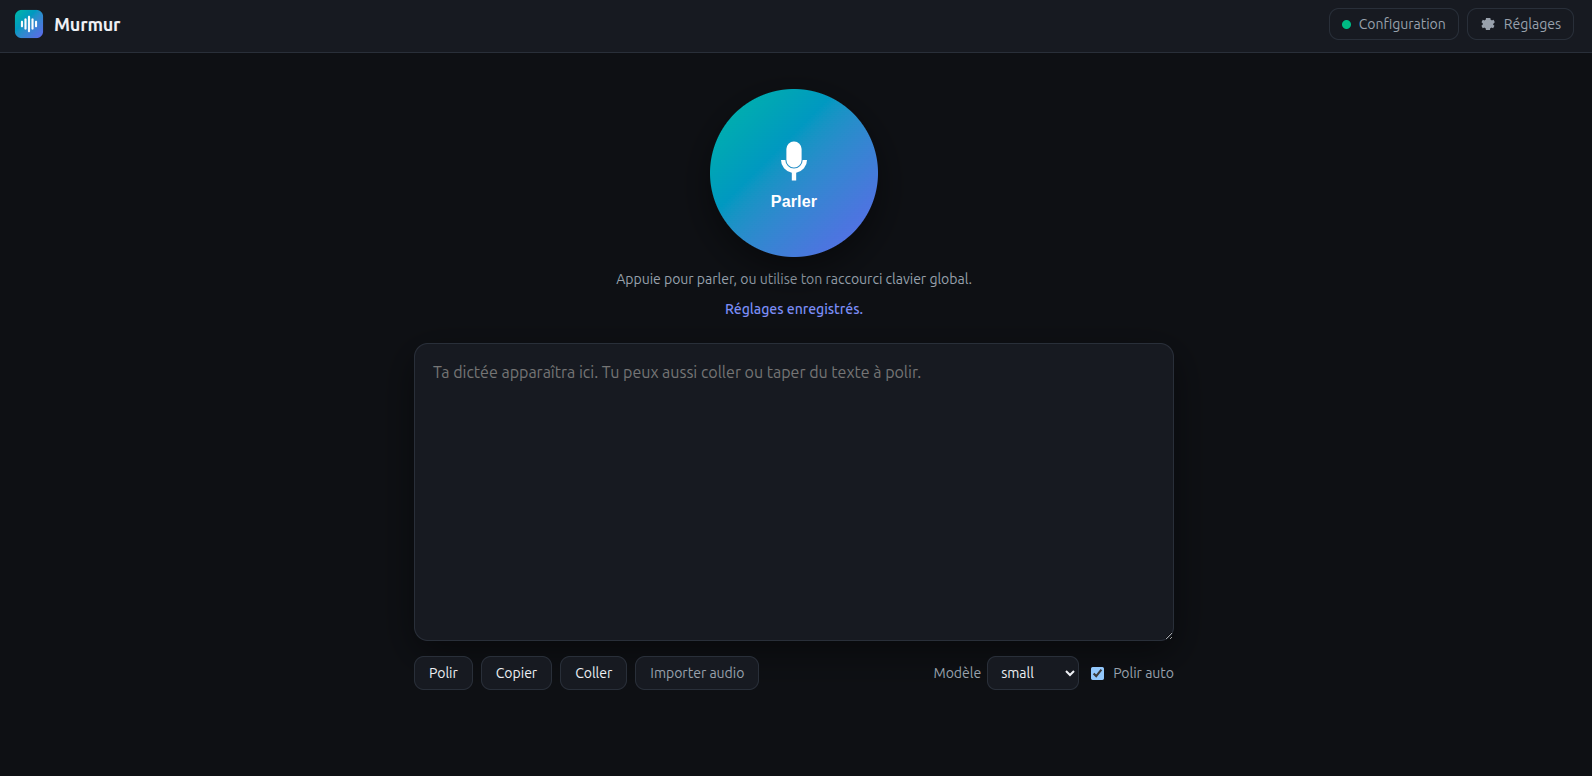
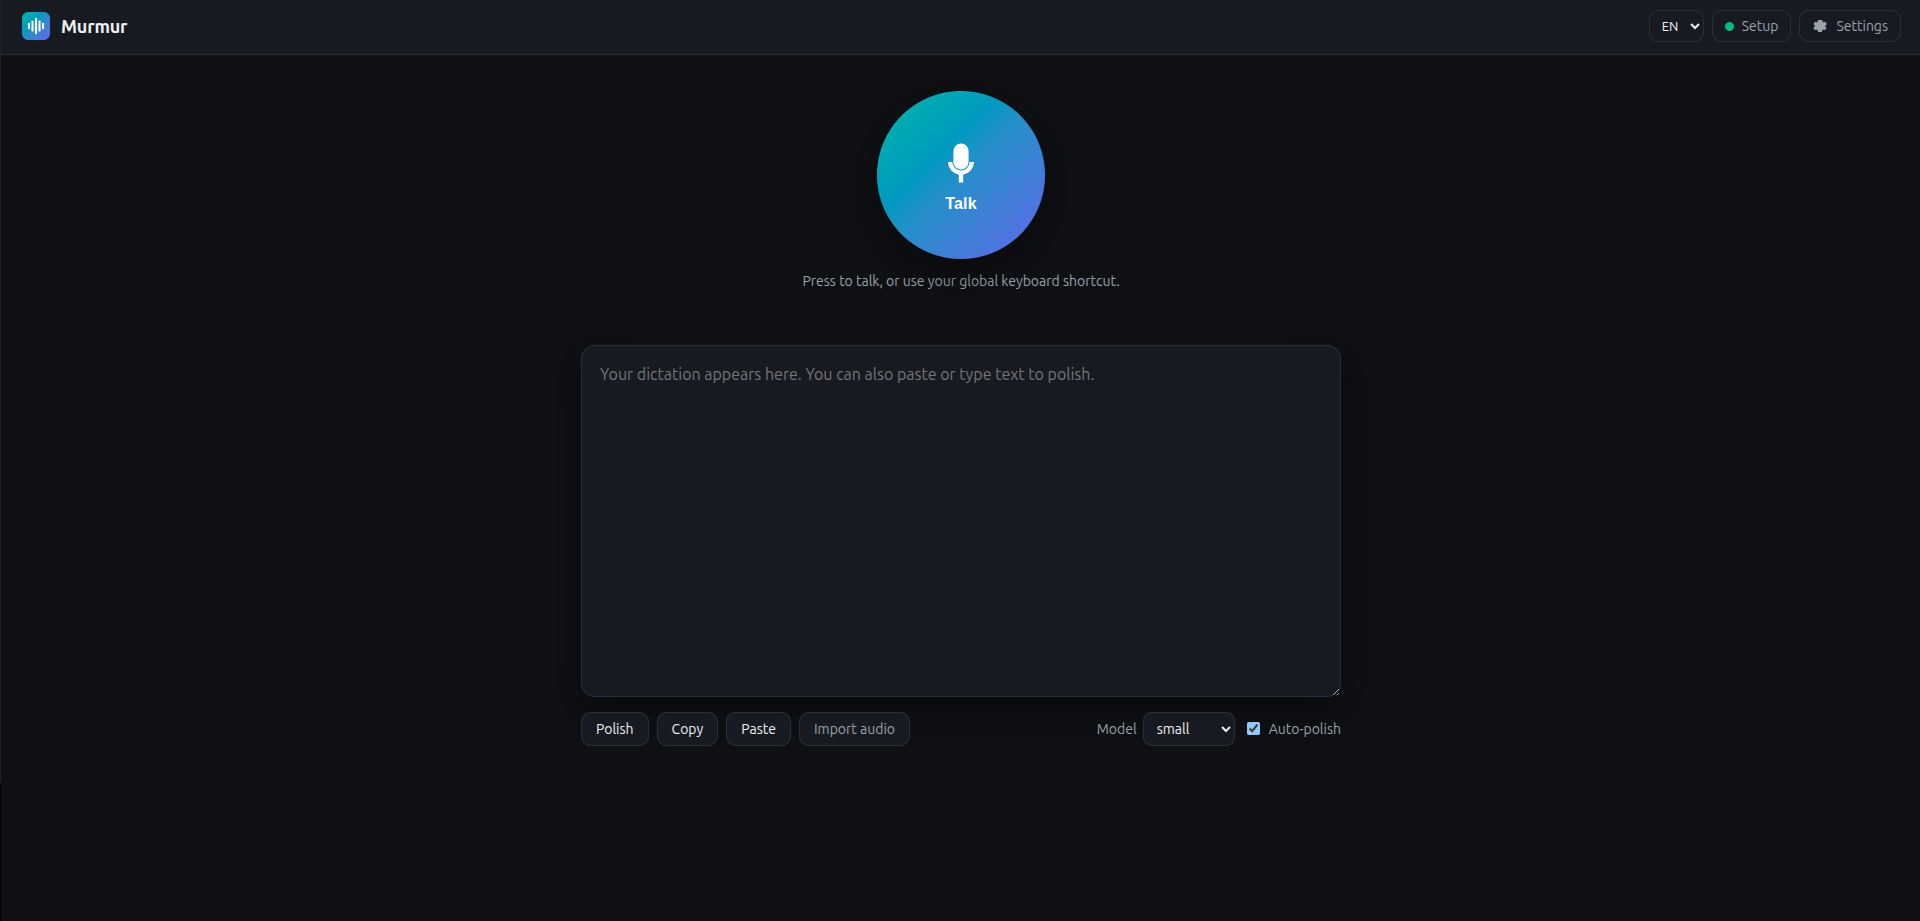
Use English screenshots in the README
Swap the main screenshot for the English UI (more universal for an open-source
audience) and add the English settings panel alongside the diagnostics panel.

diff --git a/README.md b/README.md
@@ -16,11 +16,14 @@ The first version focuses on the core Flow-like loop:
 
 ![Murmur dictation screen](docs/screenshots/main.png)
 
-The built-in setup diagnostics show, in the app, what is installed and the exact
-command to fix anything that is missing — so any Linux user can get set up
-without the terminal. The interface is available in English and French.
+Grouped settings and built-in setup diagnostics — the diagnostics show what is
+installed and the exact command to fix anything missing, so any Linux user can
+get set up without the terminal. The interface is available in English and French.
 
-<img src="docs/screenshots/diagnostics.png" alt="Setup and diagnostics panel" width="360">
+<p>
+  <img src="docs/screenshots/settings.png" alt="Settings panel" width="330">
+  <img src="docs/screenshots/diagnostics.png" alt="Setup and diagnostics panel" width="330">
+</p>
 
 ## Current status
 